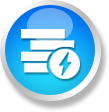
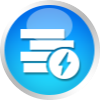
fix style for the mypage page

diff --git a/src/components/myPage/LeftMenu.jsx b/src/components/myPage/LeftMenu.jsx
@@ -50,7 +50,7 @@ const LeftMenu = ({
     }
       
     const EditProfileButton = ({path, text, icon, iconHighlight, selectedTab}) => (
-        <div style={{padding: '0 1.875rem'}} className='w-full'>
+        <div className='h-full' style={{padding: '0 1.875rem'}} className='w-full'>
             <button 
             className={`${
                 pathname.includes(path)
@@ -68,7 +68,8 @@ const LeftMenu = ({
                 } bg-white rounded-full flex items-center justify-center flex-shrink-0`} 
             >
                 <img 
-                    className="h-36 bg-white rounded-full flex items-center justify-center" 
+                    style={{height: '9.4375rem', width: '9.4375rem', boxShadow: '4px 6.928px 5px 0px rgba(35, 60, 77, 0.3)'}}
+                    className="bg-white rounded-full flex items-center justify-center" 
                     src={icon} 
                     alt="icon" />
             </div>
@@ -101,14 +102,14 @@ const LeftMenu = ({
                         <ReauthenticatePopup setPopupOpen={setPopupOpen} setSelectedTab={setSelectedTab}/>
                     </PopupControls>  
                 ) : (
-                    <div className={index % 2 === 0 ? "bg-gray-f7f7f7" : "bg-white"}>
-                        <div style={{padding: '0 1.875rem'}}>
+                    <div style={{borderBottomWidth: '0.1875rem', height: '12.375rem'}} className={`${index % 2 === 0 ? "bg-gray-f7f7f7" : "bg-white"} border-b border-gray-ececec`}>
+                        <div className='h-full' style={{padding: '0 1.875rem'}}>
                             <button 
                                 className={`${
                                     pathname.includes(item.mainPath)
                                     ? "bg-gradient-to-br from-blue-gradLight to-blue-gradDark shadow-plain2" 
                                     : ""
-                                } flex w-full items-center focus:text-white p-2.5 px-10 rounded-full hover:bg-gray-f2f2f2 focus:bg-gradient-to-l focus:from-blue-gradDark focus:to-blue-r2088f0`} 
+                                } flex w-full h-full items-center focus:text-white p-2.5 px-10 rounded-full hover:bg-gray-f2f2f2 focus:bg-gradient-to-l focus:from-blue-gradDark focus:to-blue-r2088f0`} 
                                 onClick={(e) => buttonPressed(item.text, item.path)}
                                 onMouseEnter={() => mouseHover(item.path)}
                                 onMouseLeave={() => mouseLeave(item.path)}
@@ -131,7 +132,8 @@ const LeftMenu = ({
                                     } bg-white rounded-full flex items-center justify-center flex-shrink-0`} 
                                 >
                                     <img 
-                                        className="h-36	bg-white rounded-full flex items-center justify-center" 
+                                        style={{height: '9.4375rem', width: '9.4375rem', boxShadow: '4px 6.928px 5px 0px rgba(35, 60, 77, 0.3)'}}
+                                        className="bg-white rounded-full flex items-center justify-center" 
                                         src={item.icon} 
                                         alt="icon" />
                                 </div>
@@ -149,9 +151,13 @@ const LeftMenu = ({
                                             {item.text}
                                         </label>
                                         {item.inboxCount && (
-                                            <div style={{backgroundColor:"#ed2f59"}} className="ml-10px p-5 rounded-full text-white text-3xl ml-8 flex items-center justify-center font-roboto">
-                                                {item.inboxCount}
-                                            </div>
+                                            // <div style={{backgroundColor:"#ed2f59", fontSize: '2rem'}} className={`ml-10px p-5 ${item.inboxCount.split('').length === 1 ? "rounded-full" : ""} w-6 h-6 text-white text-3xl ml-8 flex items-center justify-center font-roboto`}>
+                                            //     {item.inboxCount}
+                                            //     {console.log(`typeof item.inboxCount`, item.inboxCount.split('').length )}
+                                            // </div>
+                                            <div style={{marginLeft: '1.875rem'}} className={`flex items-center justify-center w-16 h-16 bg-red-notification text-white -mr-6px -mt-3px rounded-full shadow-plain6 ${item.inboxCount.split('').length === 1 ? "" : "px-12"}`}>
+                                                <label className="text-4xl font-roboto mt-2px ml-px">{item.inboxCount}</label>
+                                            </div>    
                                         )}
                                         {item.hasArrow && (
                                             <img 

diff --git a/src/pages/MyPage.jsx b/src/pages/MyPage.jsx
@@ -205,16 +205,17 @@ const MyPage = ({ isAuthenticated, setAuthenticated }) => {
   const myInfo = (
     <>
     <div className="w-full top-0 z-50 flex flex-col items-start limit1920:items-center">
-        <div style={{marginBottom: '1.875rem'}} className="relative flex w-full h-36 justify-center items-center border-b border-gray-ececec">
-          <span style={{fontSize: '4rem'}} className="spoqaBold font-semibold">마이 인포</span>
+        <div style={{marginBottom: '1.875rem'}} className="relative flex w-full h-36 justify-center items-center border-b border-gray-ececec cursor-pointer">
+          <span style={{fontSize: '4rem'}} className="font-spoqaBold">마이 인포</span>
           <img
+            onClick={() => history.push( isAuthenticated ? "/main" : "/")}
             className="absolute right-12 top-12 w-14"
             src={CloseIcon}
             alt="close_icon"
           />
         </div>
         <div className="px-10 w-full">
-          <div className="relative flex w-full z-10 flex-wrap bg-blue-e8f3fd rounded-3xl">
+          <div style={{borderRadius: '3.75rem'}} className="relative flex w-full z-10 flex-wrap bg-blue-e8f3fd">
             {isAuthenticated && (<div style={{padding: '2.4375rem', paddingBottom: '1.3125rem'}} className="flex w-full">
               <div style={{width: '23.6rem'}}>
                 <img style={{maxWidth: '23.6rem', width: '23.6rem'}} src={ProfileIcon} alt="profile_icon" />
@@ -228,7 +229,7 @@ const MyPage = ({ isAuthenticated, setAuthenticated }) => {
                   <span className="text-gray-a4b1b4 font-semibold">님</span>
                 </p>
                 <div>
-                  <div className="flex w-full items-center bg-white rounded-t-2xl p-1.5 pr-4 border-b-2 border-blue-e8f3fd">
+                  <div style={{borderTopRightRadius: '3.75rem', borderTopLeftRadius: '3.75rem', padding: '0.75rem', paddingRight: '1rem'}} className="flex w-full items-center bg-white rounded-t-2xl p-1.5 pr-4 border-b-2 border-blue-e8f3fd">
                     <div className="w-1/6 ">
                       <div className="flex justify-center items-center text-white h-24 w-24 rounded-full text-6xl bg-gradient-to-br from-blue-gradLight to-blue-gradDark shadow-plain2">
                         ₩
@@ -236,7 +237,7 @@ const MyPage = ({ isAuthenticated, setAuthenticated }) => {
                     </div>
                     <p className="w-5/6 m-0 text-6xl spoqaBold text-right text-blue-r1ca7ec font-semibold">100,000,000 원</p>
                   </div>
-                  <div className="flex w-full items-center bg-white rounded-b-2xl p-1.5 pr-4">
+                  <div style={{borderBottomRightRadius: '3.75rem', borderBottomLeftRadius: '3.75rem', padding: '0.75rem', paddingRight: '1rem'}} className="flex w-full items-center bg-white rounded-b-2xl p-1.5 pr-4">
                     <div className="w-1/6 ">
                       <div className="flex justify-center items-center text-white h-24 w-24 rounded-full text-6xl bg-orange-ff7e00 shadow-plain2">
                         P
@@ -270,7 +271,7 @@ const MyPage = ({ isAuthenticated, setAuthenticated }) => {
               </DropDownControls>
             </div>
           </div>
-          <div className="flex w-full justify-between items-center pt-16 -mt-14 h-52 rounded-3xl bg-gray-d9e6f2">
+          <div style={{borderBottomRightRadius: '3.75rem', borderBottomLeftRadius: '3.75rem'}} className="flex w-full justify-between items-center pt-16 -mt-14 h-52 rounded-3xl bg-gray-d9e6f2">
             <div className="flex items-center space-x-2px pr-10px ml-24">
               <img
                 className="w-36 object-contain"
